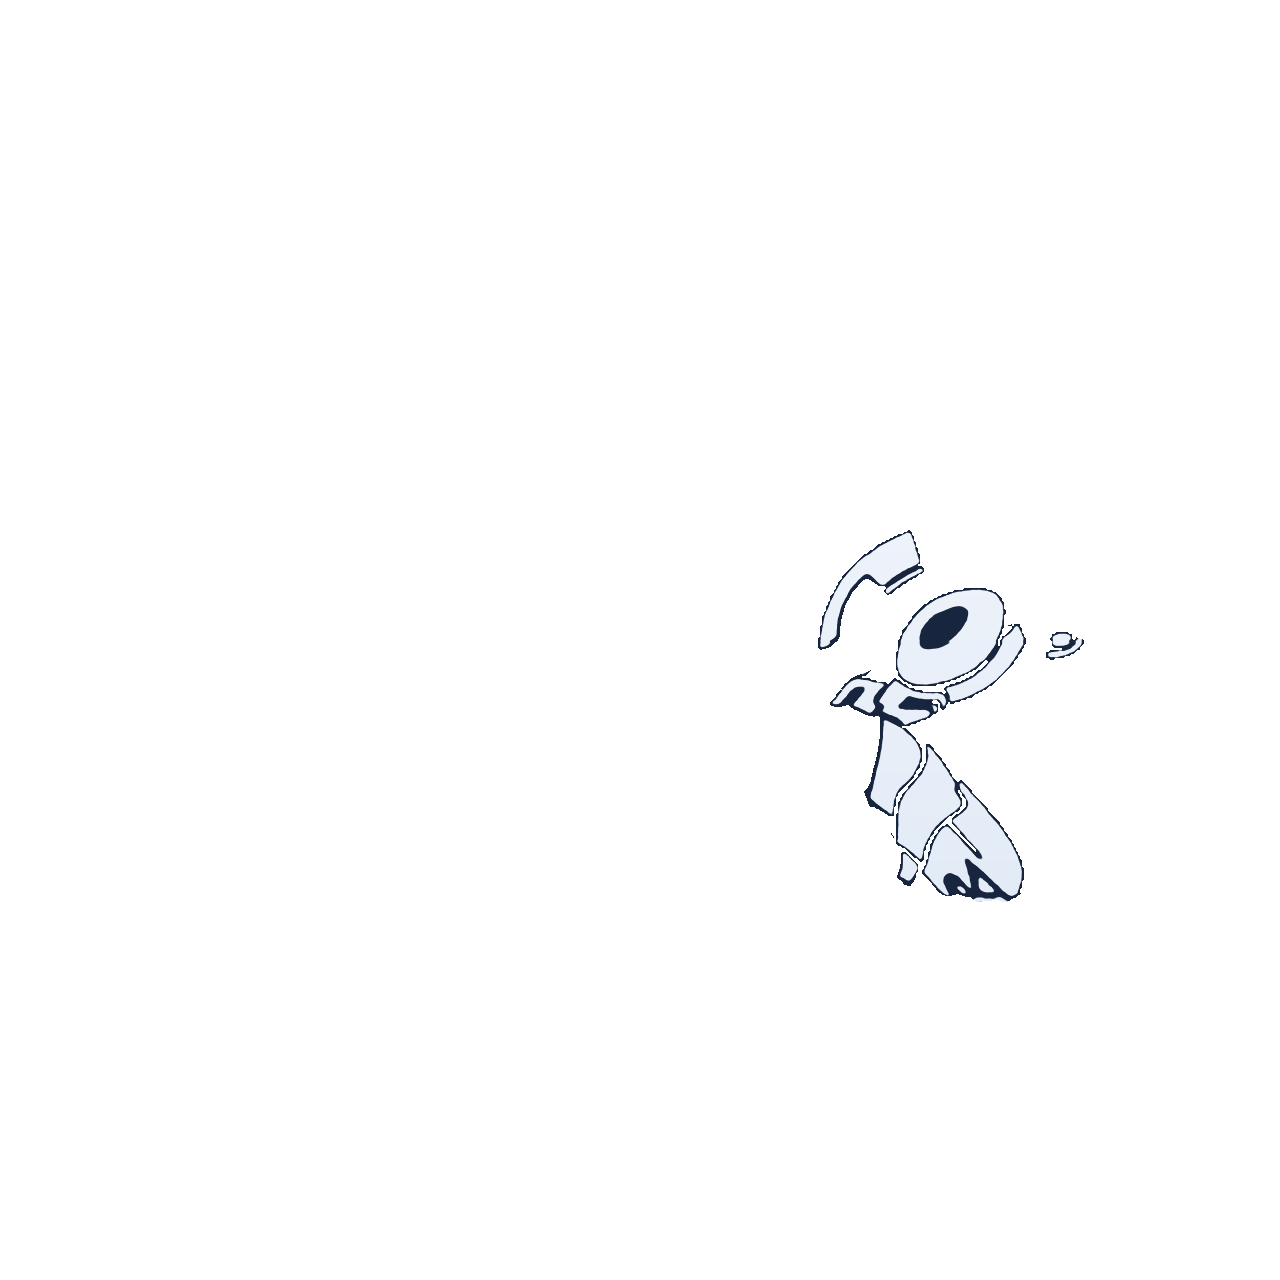
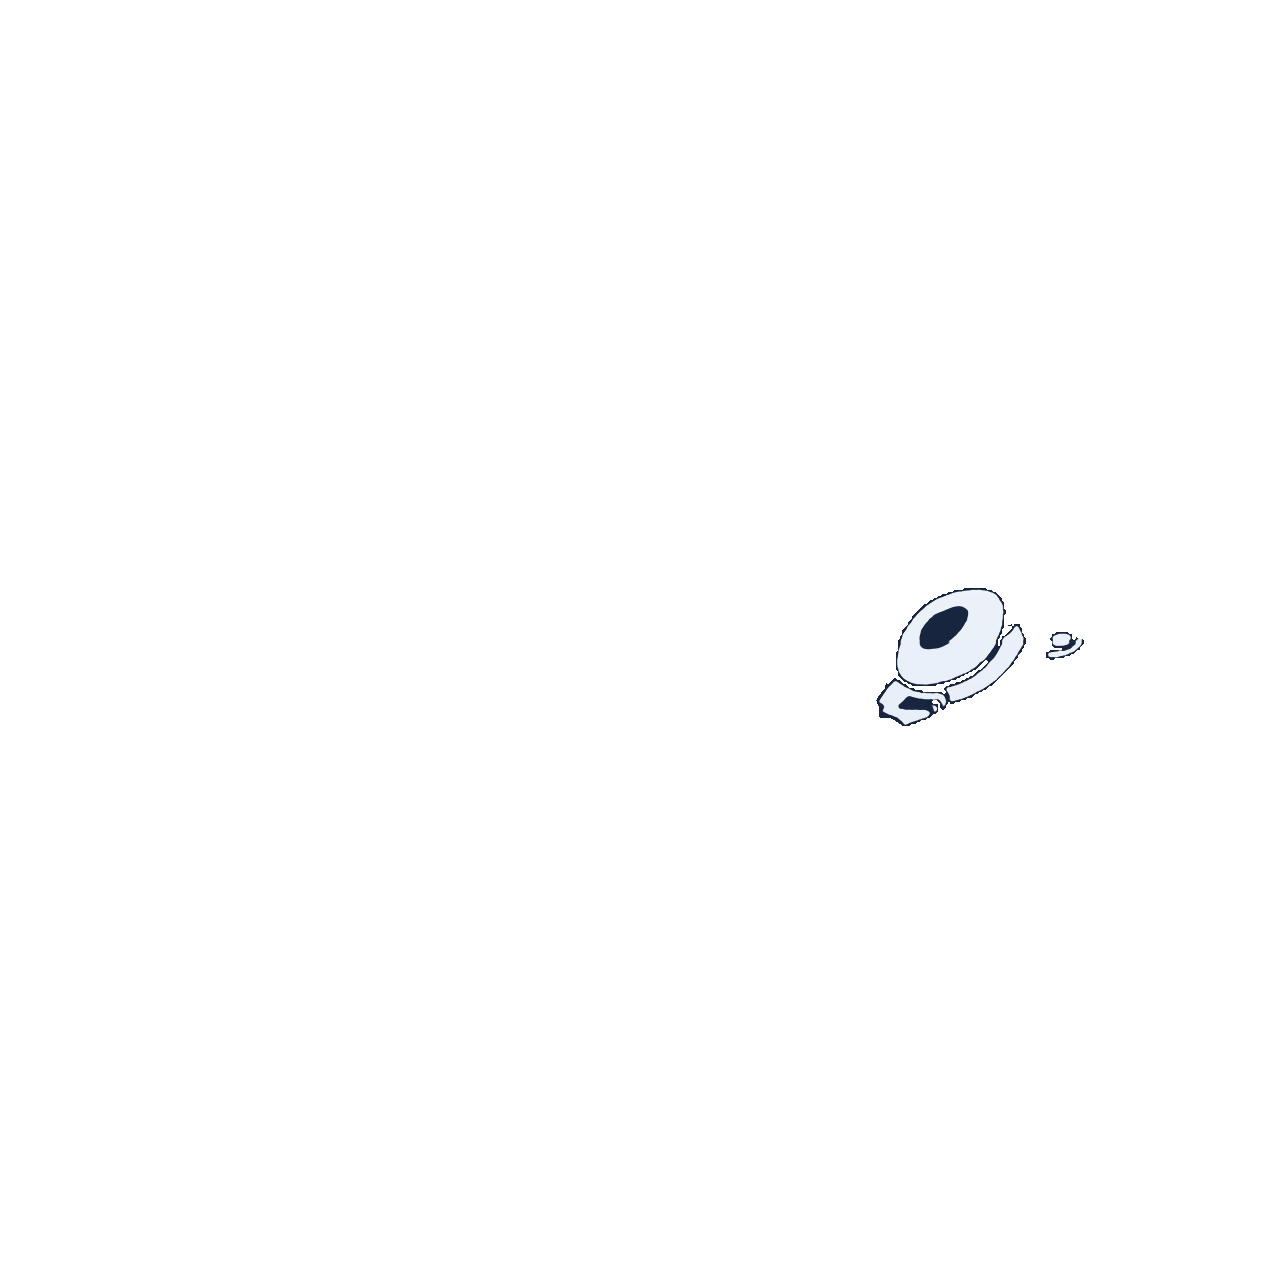
독수리 머리 영역 수정 — 머리가 목·가슴 덩어리까지 잡던 문제 해결(사용자 지적). 머리 폴리곤을 눈+눈썹 주변으로 좁혀 목/부리/가슴은 몸통으로 재배정, HTML 히트영역·화살표도 눈 중심에 맞춤

diff --git a/design-candidates/G-research.html b/design-candidates/G-research.html
@@ -499,7 +499,7 @@ summary .i-badge::after{content:"▾";margin-left:.35rem;font-size:.85em}
   var PARTS = [
     { cid:'thermal',       png:'lw',     hot:'polygon(43% 19%,33% 12%,16% 14%,4% 23%,2% 41%,14% 48%,27% 51%,38% 48%,45% 39%,48% 28%)', cx:24, cy:33, lift:'translate(-6%,-7%)', lx:16, ly:9,  part:'왼쪽 날개' },
     { cid:'micro',         png:'rw',     hot:'polygon(78% 16%,99% 11%,99% 47%,80% 50%,72% 32%,74% 20%)',                                 cx:87, cy:29, lift:'translate(6%,-6%)',  lx:87, ly:9,  part:'오른쪽 날개' },
-    { cid:'dynamics',      png:'head',   hot:'polygon(68% 42%,90% 45%,89% 62%,81% 70%,70% 68%,66% 52%)',                                 cx:78, cy:56, lift:'translate(8%,2%)',   lx:92, ly:52, part:'머리' },
+    { cid:'dynamics',      png:'head',   hot:'polygon(70% 46%,84% 44%,90% 50%,89% 57%,82% 61%,73% 59%,68% 52%)',                         cx:79, cy:52, lift:'translate(9%,-2%)',  lx:92, ly:52, part:'머리' },
     { cid:'solid',         png:'body',   hot:'polygon(35% 45%,66% 45%,71% 58%,66% 74%,46% 74%,40% 60%,33% 52%)',                         cx:49, cy:57, lift:'translate(-3%,-5%)', lx:8,  ly:52, part:'몸통' },
     { cid:'manufacturing', png:'tail',   hot:'polygon(50% 58%,30% 60%,12% 66%,18% 80%,30% 88%,46% 76%,52% 64%)',                         cx:29, cy:74, lift:'translate(-7%,7%)',  lx:15, ly:91, part:'꼬리' },
     { cid:'optics',        png:'talons', hot:'polygon(54% 70%,74% 69%,85% 79%,82% 95%,64% 98%,53% 86%)',                                 cx:68, cy:84, lift:'translate(4%,8%)',   lx:86, ly:92, part:'발톱' }
